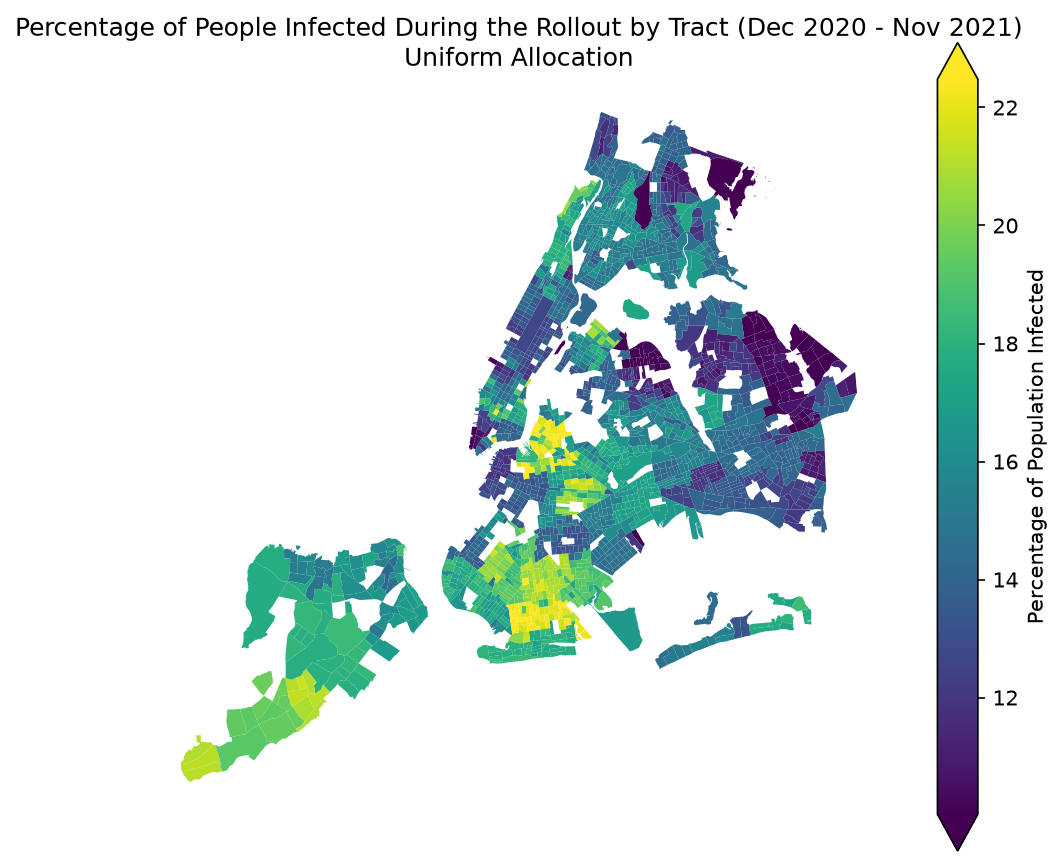
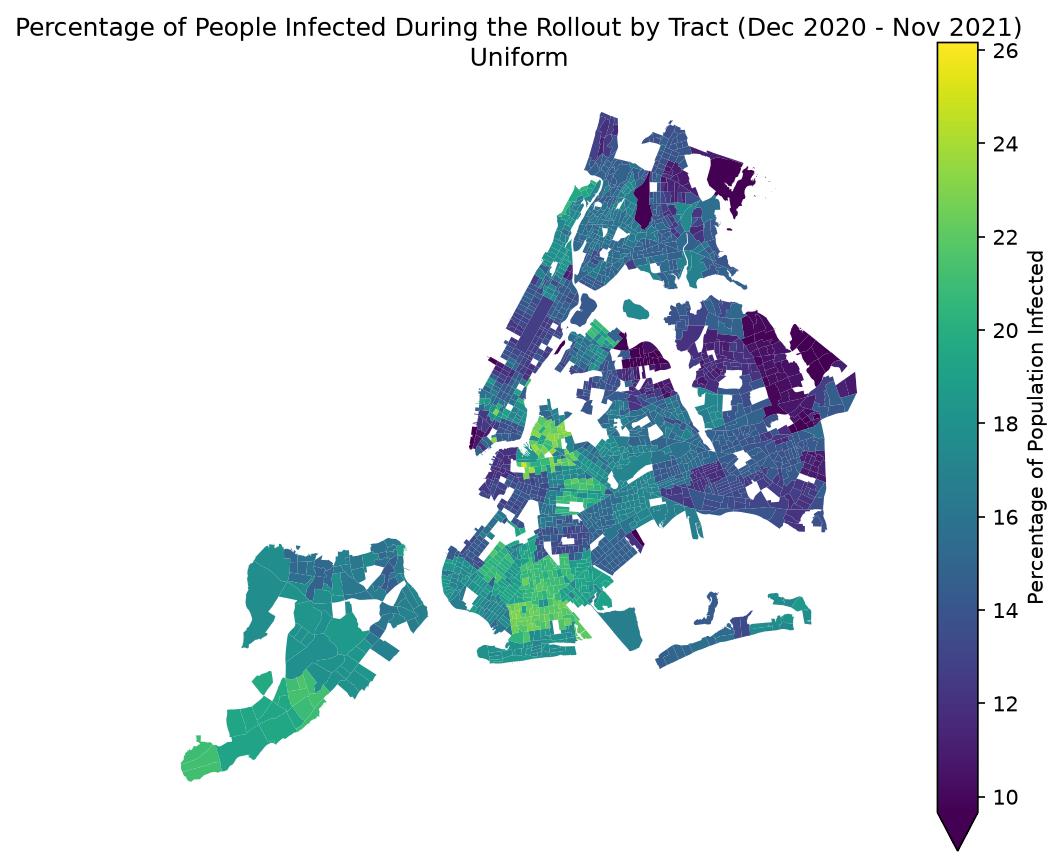
Add compartment and tract map figures for all five strategies

diff --git a/realistic_model/paper_figs.py b/realistic_model/paper_figs.py
@@ -1,4 +1,4 @@
-# Paper figures: model fit to reported cases, Figures 3a-c (uniform) and 4a-c (income-based), and the strategy comparison.
+# Paper figures: model fit to reported cases, compartments and tract maps for each strategy, and the strategy comparison.
 # Plain matplotlib style to match the other figures in the paper. Run after fit.py and scenarios.py.
 import sys, pickle
 exec(open(sys.argv[1]).read())
@@ -22,14 +22,14 @@ geo = geo[['GEOID', 'geometry']].merge(df[['GEOID']], on='GEOID')   # same tract
 assert (geo.GEOID.to_numpy() == df.GEOID.to_numpy()).all()
 
 res = {}
-for name, alloc in [('uniform', uniformAllocation), ('income_based', incomeAllocation)]:
+for name, alloc in [('Actual rollout', actualAllocation), ('Uniform', uniformAllocation), ('Income-based', incomeAllocation),
+                    ('Susceptible-first', susceptibleAllocation), ('Hotspot', hotspotAllocation(rr))]:
   totals, yStart, yMid, yEnd = runDaily(alloc)
   res[name] = dict(totals=totals, vaxMid=(yMid[1] + yMid[3] + yMid[5] + yMid[7]) / pop,
                    infRollout=(yEnd[8] - yStart[8]) / pop)
-  print(name, f'infections during rollout {(yEnd[8] - yStart[8]).sum():.0f}, recovered at end {(yEnd[6] + yEnd[7]).sum():.0f}, '
+  print(f'{name:17s} infections during rollout {(yEnd[8] - yStart[8]).sum():.0f}, recovered at end {(yEnd[6] + yEnd[7]).sum():.0f}, '
         f'vaccinated at end {(yEnd[1] + yEnd[3] + yEnd[5] + yEnd[7]).sum():.0f}')
 
-TITLES = {'uniform': 'Uniform Allocation', 'income_based': 'Income-Based Allocation'}
 TITLE, LABEL = 14, 14
 
 # model fit: reported cases, citywide and by borough
@@ -52,29 +52,57 @@ axes[0].legend(); axes[2].set_ylabel('Reported Cases per Day per 100,000', fonts
 fig.suptitle('Reported COVID-19 Cases by Borough: Model vs Observed', fontsize=TITLE)
 fig.tight_layout(); fig.savefig(f'{OUT}/model_fit_borough.png', dpi=150); plt.close(fig)
 
-# (a) citywide compartments over time
+# per-strategy figures first, then the combined ones; all share one y-axis (compartments) and one color scale per map
+SLUG = {name: name.lower().replace(' ', '_').replace('-', '_') for name in res}
 SERIES = [('Susceptible', lambda T: T[:, 0]), ('Exposed', lambda T: T[:, 2] + T[:, 3]), ('Infected', lambda T: T[:, 4] + T[:, 5]),
           ('Recovered', lambda T: T[:, 6] + T[:, 7]), ('Vaccinated, never infected', lambda T: T[:, 1])]
+YMAX = 1.05 * max(f(res[k]['totals'][VSTART:] / 1e6).max() for k in res for _, f in SERIES)   # line plots cover the rollout only
+ROWS = [('vaxMid', 'First Dose by April 1, 2021', 'Percentage of Population Vaccinated',
+         'Percentage of People with a First Dose by Tract (April 1, 2021)', 'new_vaccinated_apr2021'),
+        ('infRollout', 'Infected Dec 2020 - Nov 2021', 'Percentage of Population Infected',
+         'Percentage of People Infected During the Rollout by Tract (Dec 2020 - Nov 2021)', 'new_infected_rollout')]
+LIMITS = {key: np.percentile(np.concatenate([100 * res[k][key] for k in res]), [2, 98]) for key, *_ in ROWS}
+
 for name in res:
   T = res[name]['totals'] / 1e6
   fig, ax = plt.subplots(figsize=(10, 6))
-  for label, f in SERIES: ax.plot(dates, f(T), label=label)
-  ax.axvline(dates[VSTART], color='gray', ls='--', label='Rollout starts')
-  ax.set_title(f'SEIRV Model Simulation - {TITLES[name]}', fontsize=TITLE)
+  for label, f in SERIES: ax.plot(dates[VSTART:], f(T)[VSTART:], label=label)
+  ax.set_title(f'SEIRV Model Simulation - {name}', fontsize=TITLE)
   ax.set_xlabel('Date', fontsize=LABEL); ax.set_ylabel('Number of People (millions)', fontsize=LABEL)
-  ax.set_xlim(dates[0] - pd.Timedelta(days=15), dates[-1] + pd.Timedelta(days=15)); ax.grid(True); ax.legend()
-  fig.tight_layout(); fig.savefig(f'{OUT}/new_seirv_{name}.png', dpi=150); plt.close(fig)
-
-# (b) % with a first dose by tract on Apr 1 2021, (c) % infected during the rollout; one color scale per figure pair
-for key, title, cbar, fname in [('vaxMid', 'Percentage of People with a First Dose by Tract (April 1, 2021)', 'Percentage of Population Vaccinated', 'new_vaccinated_apr2021'),
-                                ('infRollout', 'Percentage of People Infected During the Rollout by Tract (Dec 2020 - Nov 2021)', 'Percentage of Population Infected', 'new_infected_rollout')]:
-  vmin, vmax = np.percentile(np.concatenate([100 * res[k][key] for k in res]), [2, 98])
-  for name in res:
+  ax.set_xlim(dates[VSTART], dates[-1]); ax.set_ylim(0, YMAX); ax.grid(True); ax.legend()
+  fig.tight_layout(); fig.savefig(f'{OUT}/new_seirv_{SLUG[name]}.png', dpi=150); plt.close(fig)
+  for key, _, cbar, title, fname in ROWS:
     g = geo.copy(); g['v'] = 100 * res[name][key]
     fig, ax = plt.subplots(figsize=(8, 7))
-    g.plot(column='v', cmap='viridis', vmin=vmin, vmax=vmax, ax=ax, linewidth=0, legend=True, legend_kwds={'label': cbar})
-    ax.set_axis_off(); ax.set_title(f'{title}\n{TITLES[name]}', fontsize=12)
-    fig.savefig(f'{OUT}/{fname}_{name}.png', dpi=150, bbox_inches='tight'); plt.close(fig)
+    g.plot(column='v', cmap='viridis', vmin=LIMITS[key][0], vmax=LIMITS[key][1], ax=ax, linewidth=0, legend=True, legend_kwds={'label': cbar})
+    ax.set_axis_off(); ax.set_title(f'{title}\n{name}', fontsize=12)
+    fig.savefig(f'{OUT}/{fname}_{SLUG[name]}.png', dpi=150, bbox_inches='tight'); plt.close(fig)
+
+# citywide compartments over time, one panel per strategy
+fig, axes = plt.subplots(1, len(res), figsize=(22, 5), sharey=True)
+for ax, name in zip(axes, res):
+  T = res[name]['totals'] / 1e6
+  for label, f in SERIES: ax.plot(dates[VSTART:], f(T)[VSTART:], label=label)
+  ax.set_title(name, fontsize=LABEL); ax.set_xlim(dates[VSTART], dates[-1]); ax.set_ylim(0, YMAX); ax.grid(True)
+  ax.xaxis.set_major_locator(matplotlib.dates.MonthLocator(bymonth=[1, 4, 7, 10]))
+  ax.xaxis.set_major_formatter(matplotlib.dates.DateFormatter('%b\n%Y'))
+axes[0].set_ylabel('Number of People (millions)', fontsize=LABEL)
+fig.supxlabel('Date', fontsize=LABEL); fig.suptitle('SEIRV Model Simulation by Allocation Strategy', fontsize=TITLE)
+fig.legend(*axes[0].get_legend_handles_labels(), loc='lower center', ncol=5, bbox_to_anchor=(0.5, -0.06))
+fig.tight_layout(); fig.savefig(f'{OUT}/seirv_strategies.png', dpi=150, bbox_inches='tight'); plt.close(fig)
+
+# tract maps: % with a first dose on Apr 1 2021 (top), % infected during the rollout (bottom); one color scale per row
+fig, axes = plt.subplots(2, len(res), figsize=(22, 9))
+for r, (key, rowTitle, cbar, *_) in enumerate(ROWS):
+  vmin, vmax = LIMITS[key]
+  for ax, name in zip(axes[r], res):
+    g = geo.copy(); g['v'] = 100 * res[name][key]
+    g.plot(column='v', cmap='viridis', vmin=vmin, vmax=vmax, ax=ax, linewidth=0)
+    ax.set_axis_off(); ax.set_title(name if r == 0 else '', fontsize=LABEL)
+  axes[r, 0].text(-0.05, 0.5, rowTitle, transform=axes[r, 0].transAxes, rotation=90, ha='right', va='center', fontsize=LABEL)
+  fig.colorbar(plt.cm.ScalarMappable(matplotlib.colors.Normalize(vmin, vmax), 'viridis'), ax=axes[r], fraction=0.015, pad=0.01, label=cbar)
+fig.suptitle('Vaccination and Infection by Census Tract and Allocation Strategy', fontsize=TITLE)
+fig.savefig(f'{OUT}/maps_strategies.png', dpi=150, bbox_inches='tight'); plt.close(fig)
 
 # strategy comparison: share of each income quartile infected during the rollout
 scen = pickle.load(open(f'{SCR}/scenarios2_rho{RHO_LATE}.pkl', 'rb'))
